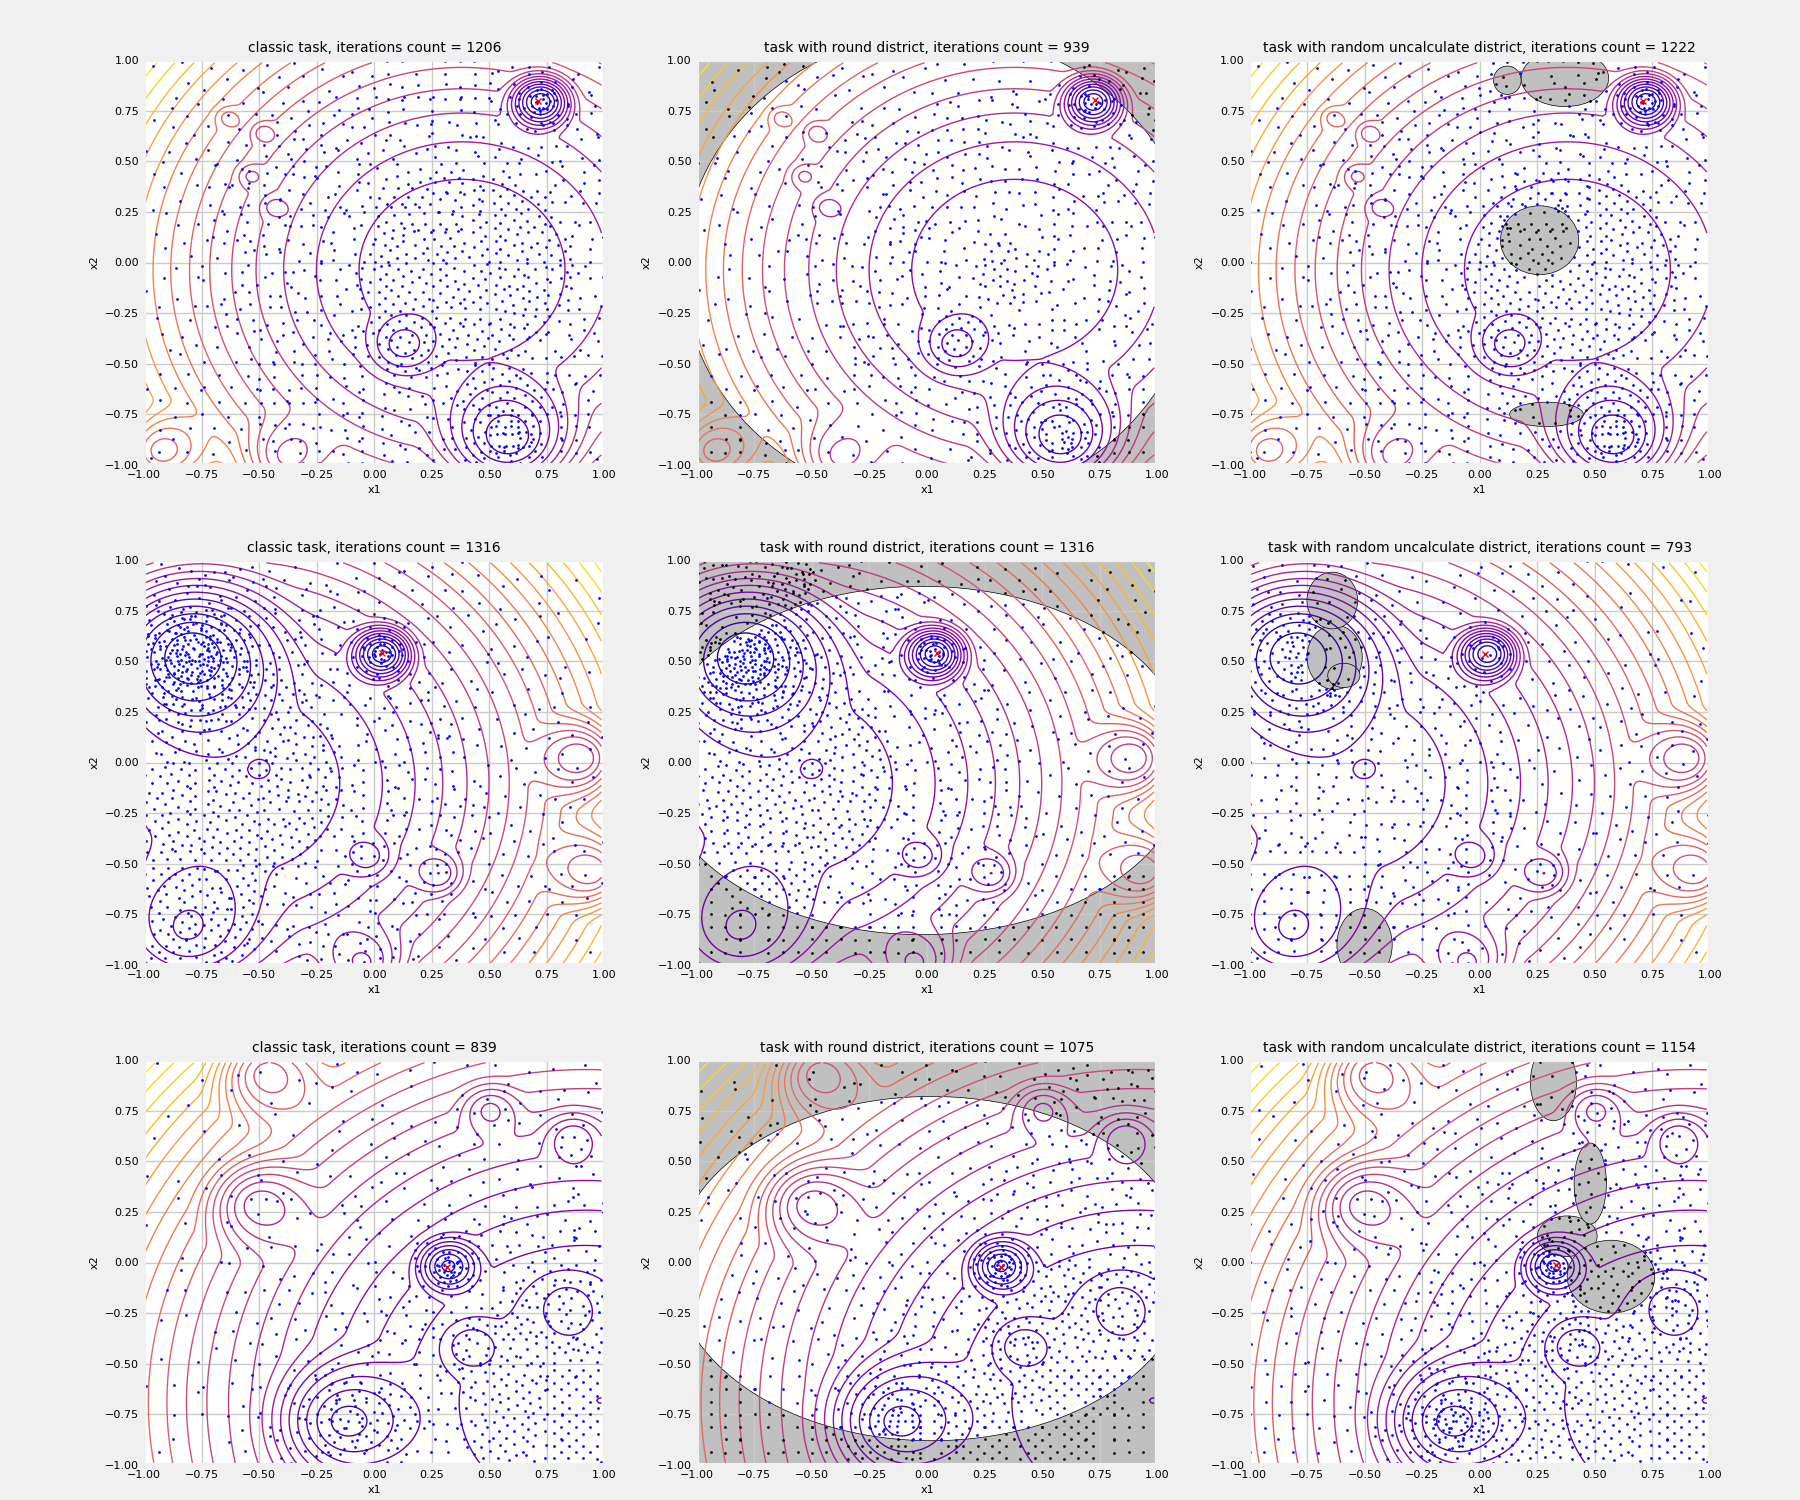
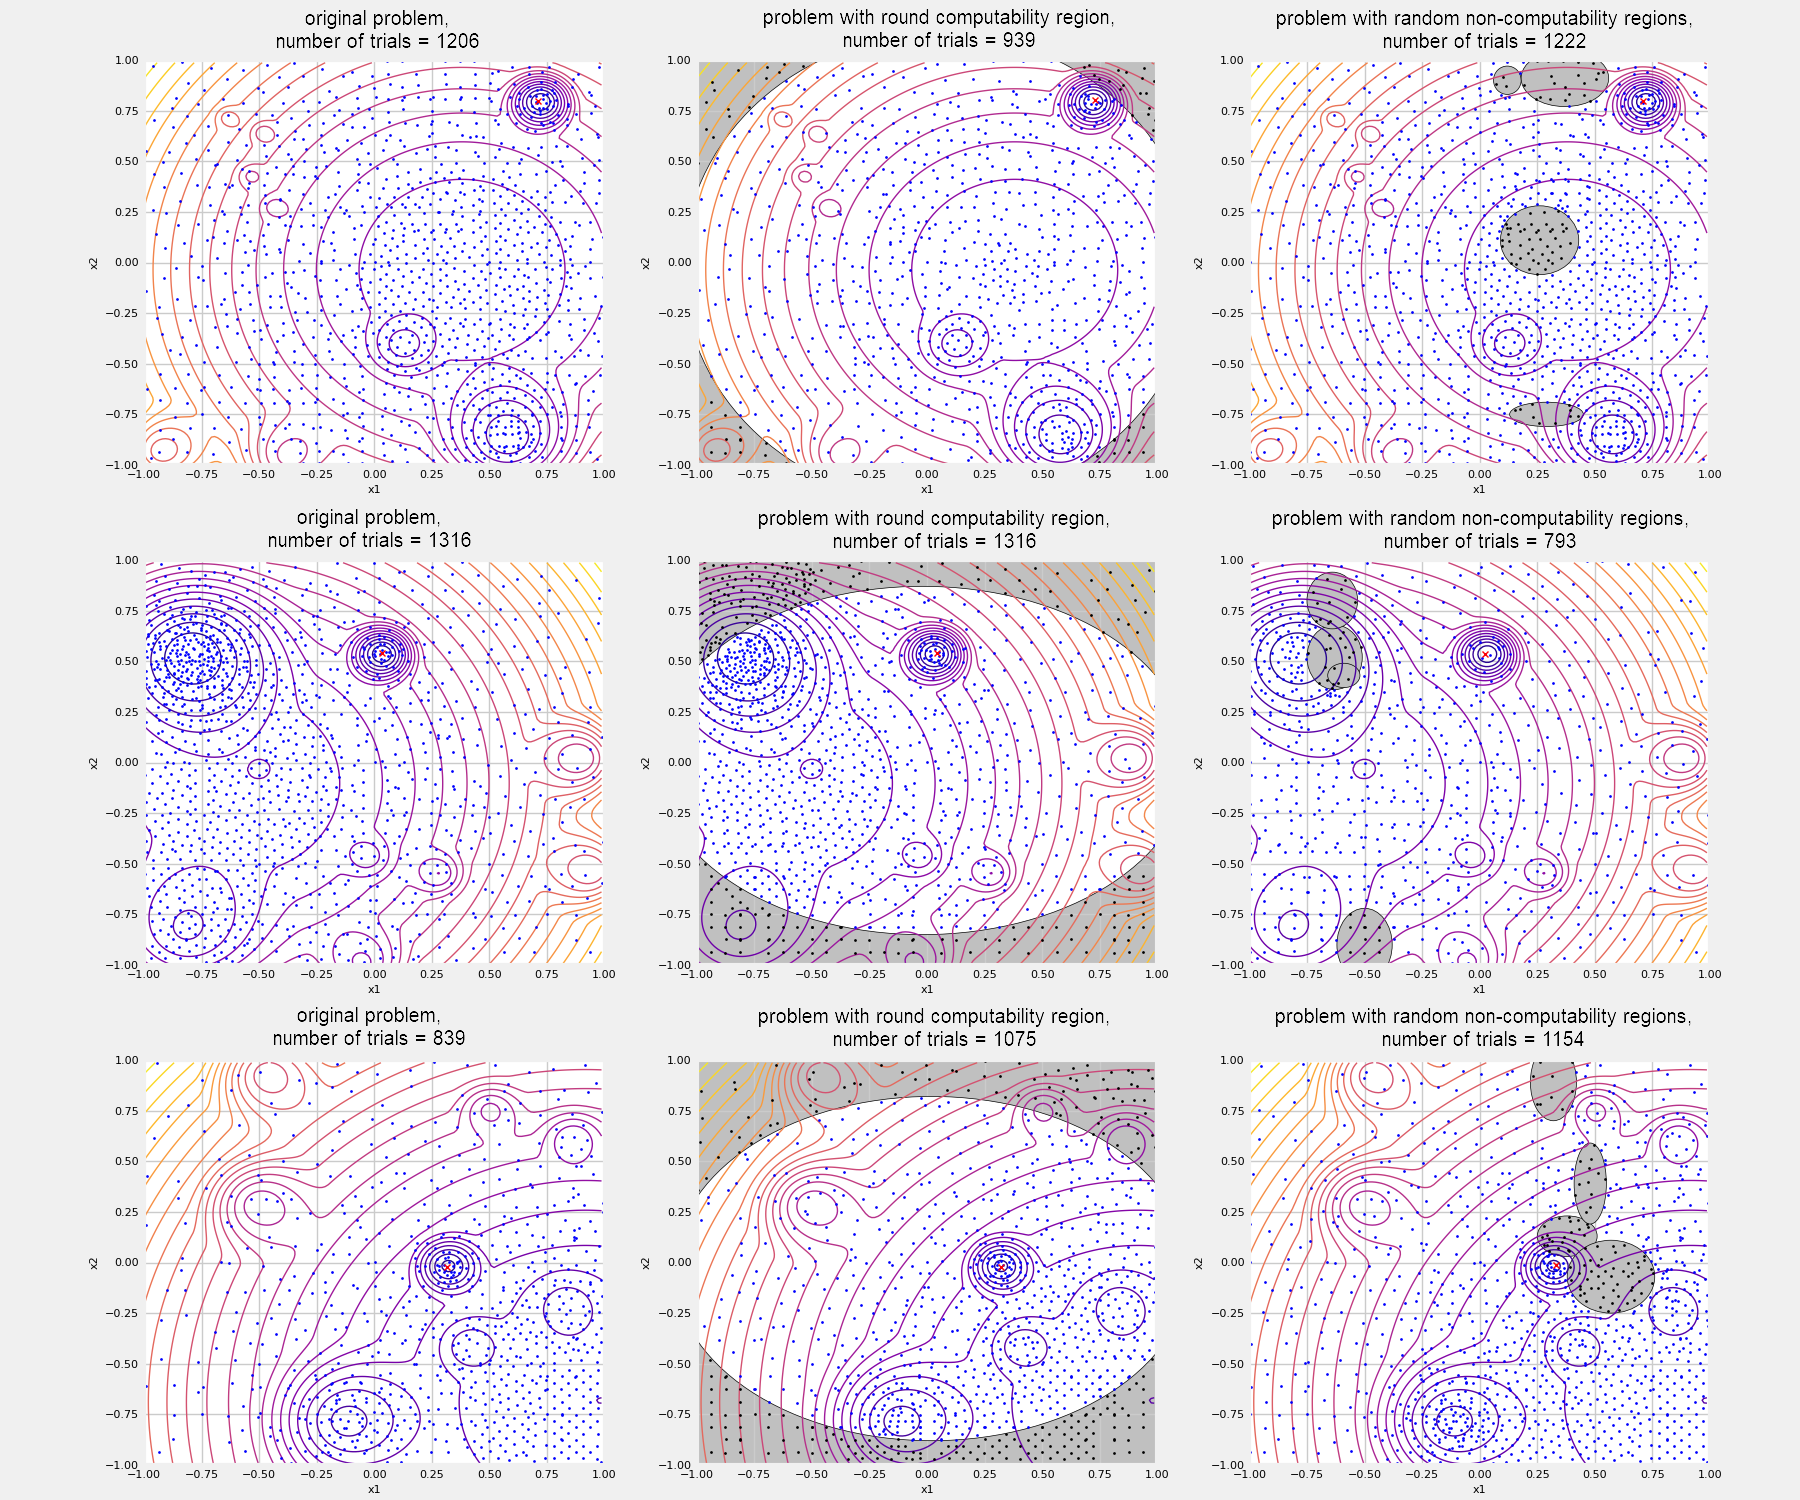
fix last picture (titles) + some titles in text

diff --git a/2023/MMST/samplepaper.tex b/2023/MMST/samplepaper.tex
@@ -343,7 +343,7 @@ In the first series of experiments, the correctness of the modification operatio
 \centering
 \begin{tabular}{|l|c|c|c|}
 \hline
- &  { classical }  & { round district }  & { random district }  \\
+ &  { original }  & { round }  & { random }  \\
 \hline
 Average number of trials & 781.7	& 854.9 & 839.0 \\
 \begin{tabular}{@{}l@{}} {Average number of trials } \\  { in non-computability regions } \end{tabular}  & - & 185.8 & 42.3 \\
@@ -369,7 +369,11 @@ The use of rule (\ref{eq25}) forms a grid of trials inside the non-computability
 \centering
 \begin{tabular}{|l|l|c|c|c|}
 \hline
- N &  Task type & Average number of trials & \begin{tabular}{@{}c@{}} {Average number of trials} \\  {in non-computability regions} \end{tabular} & Solved problems \\
+ \begin{tabular}{@{}c@{}} {N} \\ {}\end{tabular} &
+ \begin{tabular}{@{}c@{}} {Problem} \\ {type} \end{tabular} &
+ \begin{tabular}{@{}c@{}} {Average number of trials} \\ {} \end{tabular} &
+ \begin{tabular}{@{}c@{}} {Average number of trials} \\ {in non-computability regions} \end{tabular} &
+ \begin{tabular}{@{}c@{}} {Solved problems} \\ {}\end{tabular} \\
 \hline
 $3$ & original & 12251.1 & - & 100 / 100 \\
 $ $ & round & 12201.8 & 4763.6 & 100 / 100 \\
